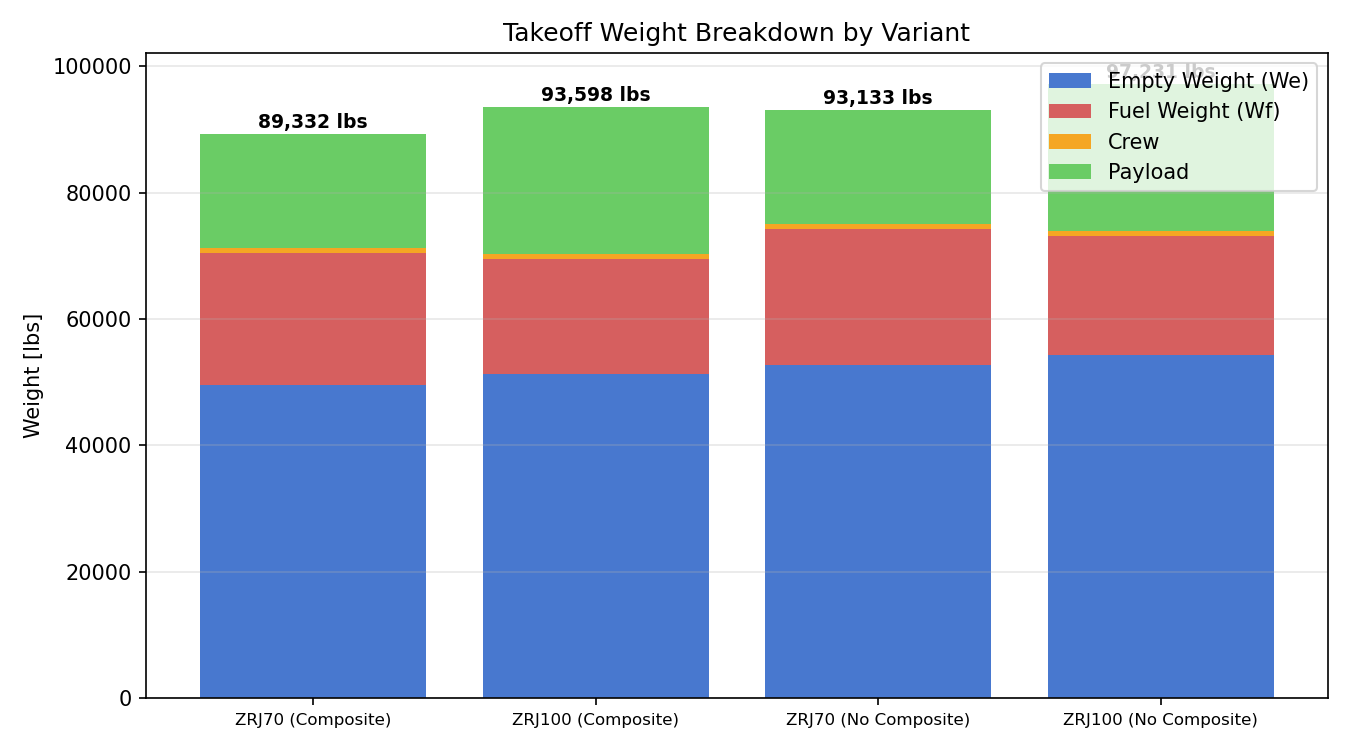
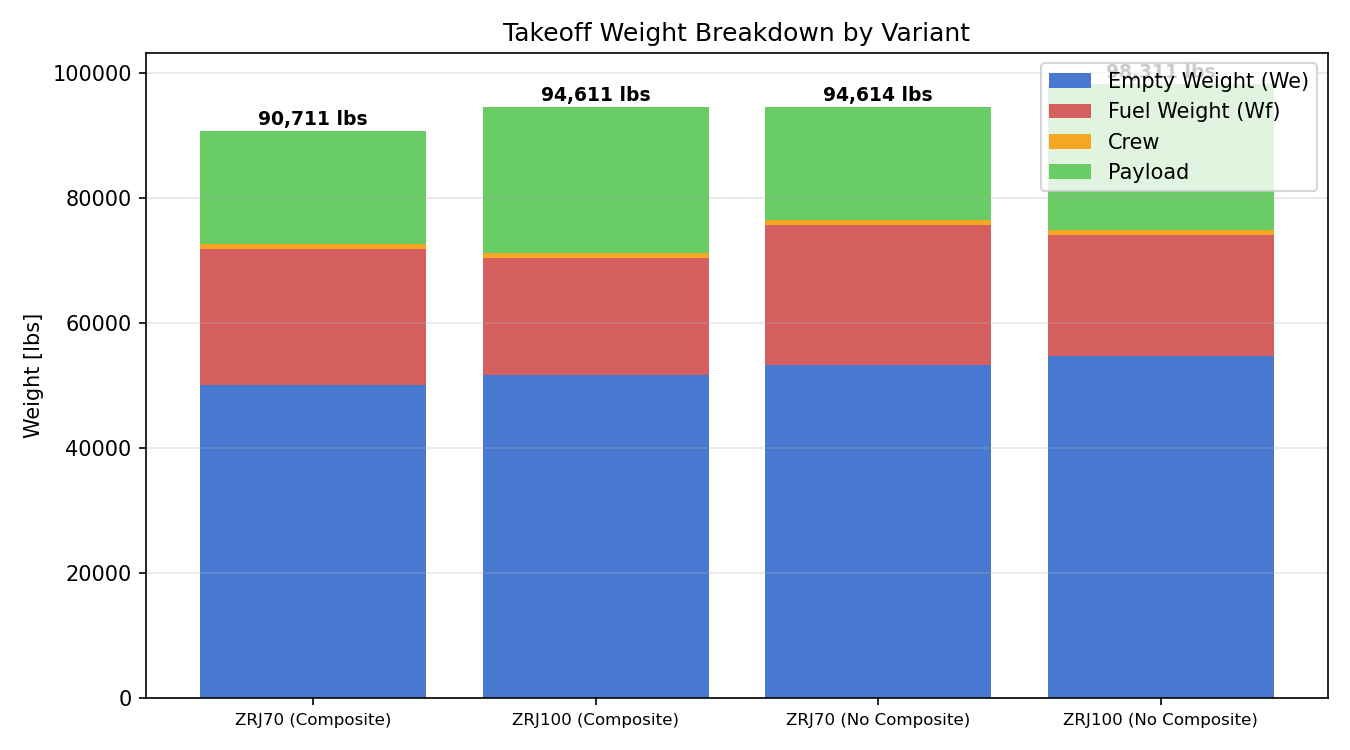
Update aero coefficients (sync_aero) and TSFC to 0.5167/0.4134
- Synced oswald_e from rj-basic-aerodynamics (0.753 -> 0.727)
- Updated cruise TSFC to 0.5167, loiter to 0.4134 (80% of cruise)
- Regenerated all sizing results and plots
- Updated README with new results

diff --git a/data/ZRJ50.py b/data/ZRJ50.py
@@ -20,7 +20,7 @@ AIRCRAFT = {
     # --- Aerodynamics (same airframe as ZRJ70) ---
     "cd0": 0.01843,                     # zero-lift drag coefficient (same as ZRJ70)
     "aspect_ratio": 7.8,               # wing aspect ratio
-    "oswald_e": 0.753,                  # Oswald span efficiency
+    "oswald_e": 0.727,                  # Oswald span efficiency
     "wing_area_ft2": 1016.58,          # ft^2, reference wing area (same as ZRJ70)
     "mach_max": 0.85,                   # max operating Mach
 
@@ -30,8 +30,8 @@ AIRCRAFT = {
 
     # --- Engine (PW1200G) ---
     "engine_name": "PW1200G",
-    "tsfc_cruise": 0.50,               # lb/(lb-hr), Raymer Table 3.3 (high-BPR turbofan)
-    "tsfc_loiter": 0.40,               # lb/(lb-hr), ~80% of cruise
+    "tsfc_cruise": 0.5167,             # lb/(lb-hr), PW1200G cruise
+    "tsfc_loiter": 0.4134,             # lb/(lb-hr), ~80% of cruise
     "max_thrust_per_engine": 19_190,    # lbf, sea level static
     "num_engines": 2,
     "bypass_ratio": 9.0,

diff --git a/data/ZRJ100.py b/data/ZRJ100.py
@@ -19,7 +19,7 @@ AIRCRAFT = {
     # --- Aerodynamics ---
     "cd0": 0.01910,                     # zero-lift drag coefficient
     "aspect_ratio": 7.8,               # wing aspect ratio
-    "oswald_e": 0.753,                  # Oswald span efficiency
+    "oswald_e": 0.727,                  # Oswald span efficiency
     "wing_area_ft2": 1016.58,          # ft^2, reference wing area (trapezoidal)
     "mach_max": 0.85,                   # max operating Mach
 
@@ -29,8 +29,8 @@ AIRCRAFT = {
 
     # --- Engine (PW1200G) ---
     "engine_name": "PW1200G",
-    "tsfc_cruise": 0.50,               # lb/(lb-hr), Raymer Table 3.3 (high-BPR turbofan)
-    "tsfc_loiter": 0.40,               # lb/(lb-hr), ~80% of cruise
+    "tsfc_cruise": 0.5167,             # lb/(lb-hr), PW1200G cruise
+    "tsfc_loiter": 0.4134,             # lb/(lb-hr), ~80% of cruise
     "max_thrust_per_engine": 19_190,    # lbf, sea level static
     "num_engines": 2,
     "bypass_ratio": 9.0,

diff --git a/data/ZRJ70.py b/data/ZRJ70.py
@@ -19,7 +19,7 @@ AIRCRAFT = {
     # --- Aerodynamics ---
     "cd0": 0.01843,                     # zero-lift drag coefficient
     "aspect_ratio": 7.8,               # wing aspect ratio
-    "oswald_e": 0.753,                  # Oswald span efficiency
+    "oswald_e": 0.727,                  # Oswald span efficiency
     "wing_area_ft2": 1016.58,          # ft^2, reference wing area (trapezoidal)
     "mach_max": 0.85,                   # max operating Mach
 
@@ -29,8 +29,8 @@ AIRCRAFT = {
 
     # --- Engine (PW1200G) ---
     "engine_name": "PW1200G",
-    "tsfc_cruise": 0.50,               # lb/(lb-hr), Raymer Table 3.3 (high-BPR turbofan)
-    "tsfc_loiter": 0.40,               # lb/(lb-hr), ~80% of cruise
+    "tsfc_cruise": 0.5167,             # lb/(lb-hr), PW1200G cruise
+    "tsfc_loiter": 0.4134,             # lb/(lb-hr), ~80% of cruise
     "max_thrust_per_engine": 19_190,    # lbf, sea level static
     "num_engines": 2,
     "bypass_ratio": 9.0,

diff --git a/README.md b/README.md
@@ -33,11 +33,11 @@ python3 plots.py
 | Parameter | Value |
 |-----------|-------|
 | Engine | PW1200G (2 × 19,190 lbf SLS, BPR 9) |
-| TSFC | 0.50 cruise / 0.40 loiter [lb/(lb·hr)] |
+| TSFC | 0.5167 cruise / 0.4134 loiter [lb/(lb·hr)] |
 | Cruise | Mach 0.78 at 35,000 ft |
 | Wing Area | 1,016.58 ft² |
 | Aspect Ratio | 7.8 |
-| Oswald e | 0.753 |
+| Oswald e | 0.727 |
 | Alternate Range | 100 nm |
 | Regulatory Hold | 30 min |
 | Contingency | 10% of cruise time |
@@ -52,7 +52,7 @@ python3 plots.py
 | ZRJ100 (No Composite) | 100 | 23,380 | 1,200 | 0.01910 | 1.00 |
 | ZRJ50 (Composite) | 50 | 11,350 | 1,800* | 0.01843 | 0.97 |
 
-*Fixed W0 = 65,000 lbs, same airframe as ZRJ70 (We = 49,600 lbs). Mission is infeasible — see below.
+*Fixed W0 = 65,000 lbs, same airframe as ZRJ70 (We = 50,136 lbs). Mission is infeasible — see below.
 
 Composite factor of 0.97 reflects composite wing + tail with metal fuselage.
 
@@ -60,35 +60,35 @@ Composite factor of 0.97 reflects composite wing + tail with metal fuselage.
 
 | Parameter | ZRJ70 (Comp) | ZRJ100 (Comp) | ZRJ70 (No Comp) | ZRJ100 (No Comp) |
 |-----------|-------------|---------------|-----------------|-------------------|
-| W0 [lbs] | 89,332 | 93,598 | 93,133 | 97,231 |
-| We [lbs] | 49,600 | 51,251 | 52,652 | 54,268 |
-| Total Fuel [lbs] | 20,889 | 18,179 | 21,638 | 18,795 |
-| Trip Fuel [lbs] | 16,329 | 13,417 | 16,892 | 13,857 |
-| Reserve Fuel [lbs] | 4,560 | 4,761 | 4,745 | 4,938 |
-| T/W (SLS) | 0.430 | 0.410 | 0.412 | 0.395 |
-| W/S [psf] | 87.9 | 92.1 | 91.6 | 95.6 |
-| L/D cruise | 14.94 | 14.81 | 15.13 | 14.97 |
-| (L/D)_max | 15.82 | 15.54 | 15.82 | 15.54 |
-| Growth Factor | 4.95 | 4.00 | 5.16 | 4.16 |
+| W0 [lbs] | 90,711 | 94,611 | 94,614 | 98,311 |
+| We [lbs] | 50,136 | 51,640 | 53,238 | 54,690 |
+| Total Fuel [lbs] | 21,732 | 18,803 | 22,532 | 19,453 |
+| Trip Fuel [lbs] | 17,025 | 13,905 | 17,631 | 14,371 |
+| Reserve Fuel [lbs] | 4,707 | 4,897 | 4,901 | 5,081 |
+| T/W (SLS) | 0.423 | 0.406 | 0.406 | 0.390 |
+| W/S [psf] | 89.2 | 93.1 | 93.1 | 96.7 |
+| L/D cruise | 14.83 | 14.67 | 15.01 | 14.82 |
+| (L/D)_max | 15.55 | 15.27 | 15.55 | 15.27 |
+| Growth Factor | 5.02 | 4.05 | 5.24 | 4.20 |
 
 ### ZRJ50 (Composite) — Same Airframe, Fixed W0 = 65,000 lbs
 
-CRJ550-style derivative: same airframe as ZRJ70 (We = 49,600 lbs), reconfigured to 50-seat cabin, constrained to W0 = 65,000 lbs.
+CRJ550-style derivative: same airframe as ZRJ70 (We = 50,136 lbs), reconfigured to 50-seat cabin, constrained to W0 = 65,000 lbs.
 
-**Result: Infeasible at 65,000 lbs.** Even at zero cruise range, overhead weight (We + min fuel + crew + payload = 69,252 lbs) exceeds the cap by 4,252 lbs. The minimum W0 for any useful mission is ~69,758 lbs.
+**Result: Infeasible at 65,000 lbs.** Even at zero cruise range, overhead weight (We + min fuel + crew + payload = 69,874 lbs) exceeds the cap by 4,874 lbs. The minimum W0 for any useful mission is ~70,461 lbs.
 
 W0 vs. maximum range (same airframe, same payload):
 
 | W0 [lbs] | Max Range [nm] |
 |-----------|---------------|
-| 65,000 | Infeasible |
-| 69,000 | Infeasible |
-| 71,000 | 290 |
-| 73,000 | 595 |
-| 75,000 | 899 |
-| 77,000 | 1,199 |
-| 79,000 | 1,498 |
-| 81,000 | 1,795 |
+| 70,000 | Infeasible |
+| 72,000 | 324 |
+| 74,000 | 614 |
+| 76,000 | 903 |
+| 78,000 | 1,189 |
+| 80,000 | 1,473 |
+| 82,000 | 1,753 |
+| 84,000 | 2,030 |
 
 ## Methods
 
